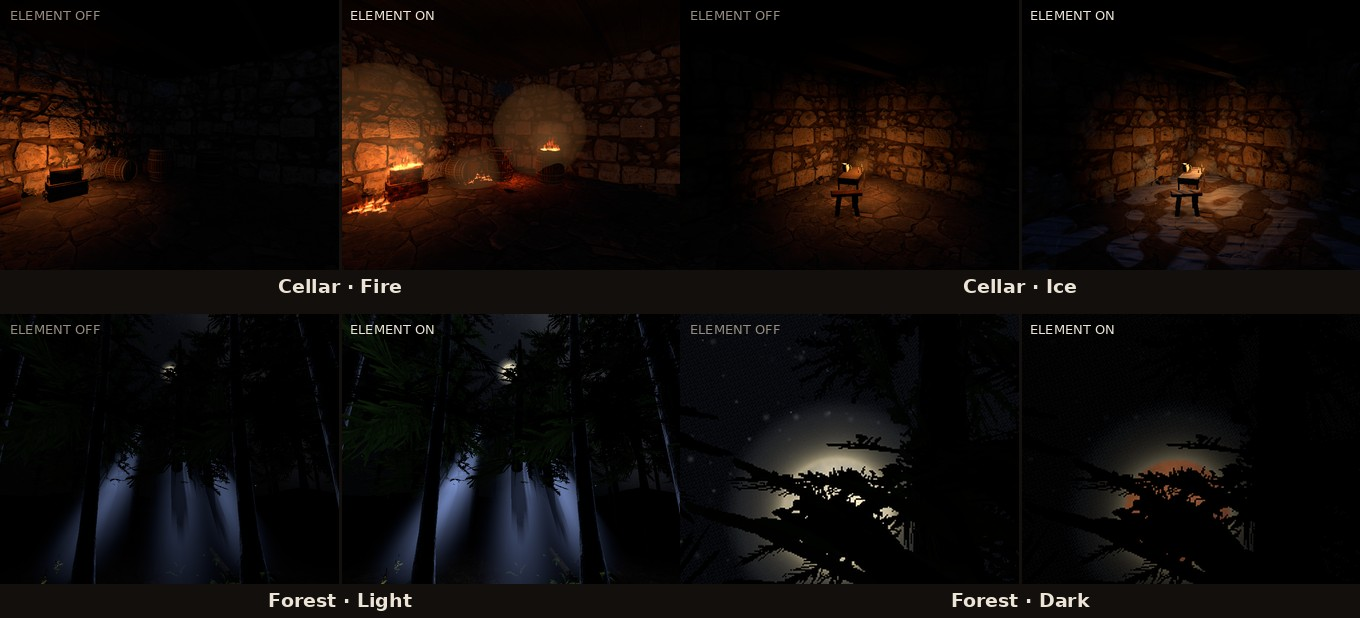
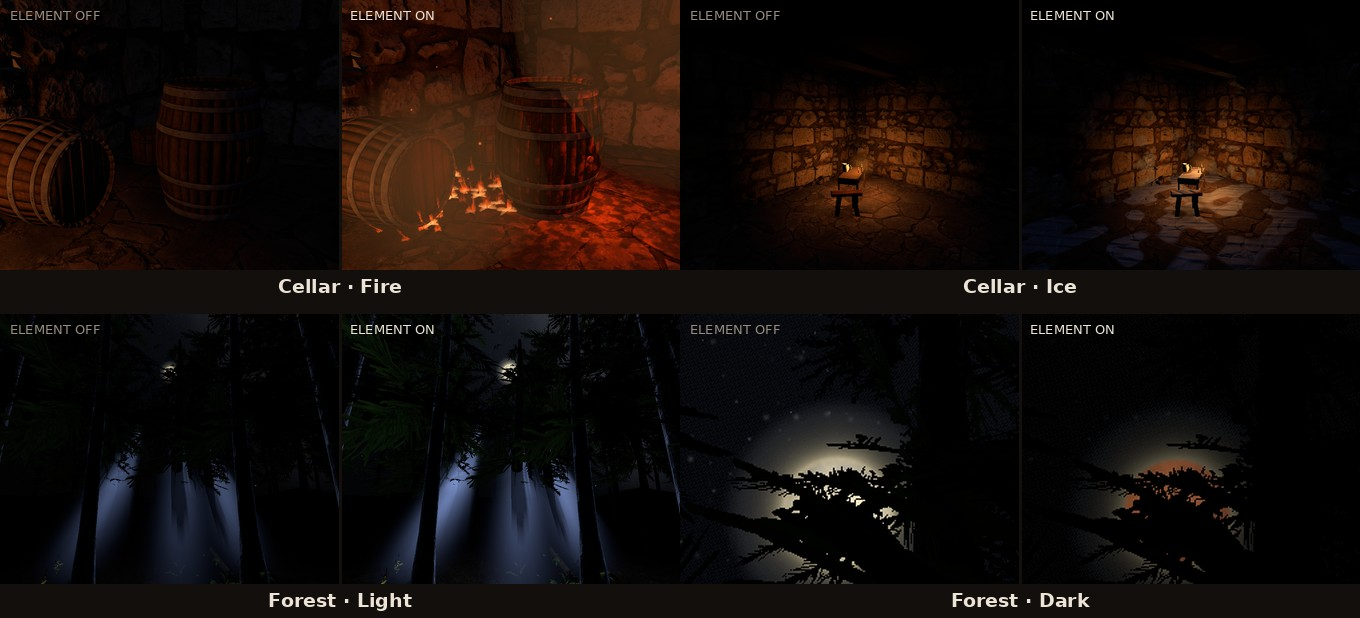
docs(readme): neutral wording, boards re-rendered, and the Fire frame moves off the glow shells
Three user reports.

1. "Die Controlboards werden nicht richtig gerendert in der README, sie sehen dort
   kaputt aus." Right, and all three faults were in the flags rather than in the assets:

   * NO NORMAL MAP. All three tray materials bind one and always did; without it the
     carved recesses, the wood grain and the brass corner straps have no relief at all
     and a tray renders as a painted plank.
   * PITCH 18 IS EDGE-ON. A tray lies FLAT — at 18 degrees it is a sliver. The player
     looks down at it; 50 does what his eye does.
   * NO SHARED SCALE. All three are 639-640 mm wide in the room and their DEPTH differs
     (318 / 369 / 218 mm), so auto-fit sized each to its own box and the strip claimed the
     brass one was half again as big as the others. --scale 0.78 pins all three.

   Two traps recorded next to the fix: the boards are _Cull: 0 (double-sided) unlike the
   hands' _Cull: 2, so rendering them WITHOUT --cull is correct and not an oversight; and
   PlayTray_16vm268h is BRONZE while PlayTray_9capjqp6 is STEEL (BoardFrame.cs:68-69) —
   they were swapped once during this very fix and only the source catches it.

   The recipe now lives in unity/asset-preview/build_asset_strips.sh with the boards in
   it, instead of in a shell history.

2. "Beim Feuer-Render sieht man solche Kreise um das Feuer herum - das sehe ich ingame
   nicht." The circles are the Env_GlowSphere shells (EnvGlow.shader): real scene
[…]

Changed region(s): [[0.2471, 0.0, 0.525, 0.4612], [0.0, 0.0615, 0.1544, 0.4612], [0.0, 0.0, 0.0309, 0.0307]]

diff --git a/unity/asset-preview/build_env_images.py b/unity/asset-preview/build_env_images.py
@@ -5,7 +5,7 @@ unity/GloomhavenVR.Assets/Assets/Editor/PreviewEnvironments.cs — all three sho
 own head height (2.02 m in the cellar, 2.80 m in the wood), so the front page shows the rooms from
 where a player really stands rather than from a convenient camera.
 
-    ENV_PREVIEW_OUT=<dir> ENV_PREVIEW_VIEWS=Readme,FireRoom ENV_PREVIEW_NOHAUNT=1 ENV_PREVIEW_NOFIRE=1 \
+    ENV_PREVIEW_OUT=<dir> ENV_PREVIEW_VIEWS=Readme,FireSpill ENV_PREVIEW_NOHAUNT=1 ENV_PREVIEW_NOFIRE=1 \
       xvfb-run -a /home/claw/unity-2021.3.5/Editor/Unity -batchmode \
       -projectPath unity/GloomhavenVR.Assets -buildTarget Win64 \
       -executeMethod GloomhavenVR.EnvironmentsPreview.RenderAll -logFile env-readme.log
@@ -105,13 +105,20 @@ hero('env_cellar_ReadmeC.png', 'env-cellar.jpg')
 hero('env_swamp_ReadmeS.png', 'env-forest.jpg')
 # The moon crop: 360x202 of the 1280x720 ReadmeMoon frame, centred on the disc.
 MOON = (470, 180, 830, 382)
-pairs([# FIRE IS SHOT FROM FireRoom, NOT FROM THE README STATION, and that is the user's second
-       # verdict on this image: "Das Feuer sieht man nicht auf dem Bild." He was right — ReadmeC
-       # looks at the candle table, so under Fire it showed the room BRIGHTENING with no fire
-       # anywhere in frame, which reads as a light switch. The gated fires are props in fixed
-       # places (a crate, a plank, a barrel) and a frame has to point AT them. FireRoom holds
-       # three of them at once and its "off" half is the same corner, dark and quiet.
-       ('env_cellar_FireRoom_ebase.png',  'env_cellar_FireRoom_efireS.png',  'Cellar · Fire',  None),
+pairs([# FIRE IS SHOT AT A FIRE, NOT AT THE README STATION — the user's verdict was "das Feuer
+       # sieht man nicht auf dem Bild", and he was right: ReadmeC looks at the candle table, so
+       # under Fire it showed the room BRIGHTENING with no fire in frame, which reads as a light
+       # switch. The gated fires are props in fixed places and a frame has to point AT them.
+       #
+       # AND IT IS FireSpill RATHER THAN FireRoom, on his next report: "beim Feuer-Render sieht
+       # man solche Kreise um das Feuer herum — das sehe ich ingame nicht". Those are the
+       # Env_GlowSphere shells (EnvGlow.shader) — real scene geometry, an additive sphere whose
+       # brightness falls off toward its silhouette. In the headset they read as volumetric haze;
+       # on a flat still shot from across the room they read as two hard-edged discs on the
+       # masonry. NO CAUSE IS ASSERTED BEYOND THAT, and nothing in the room was changed to suit a
+       # picture — the FRAME was changed instead. FireSpill stands close to a burning spill, where
+       # the flames and the glowing floor fill the frame and no glow shell is seen against a wall.
+       ('env_cellar_FireSpill_ebase.png', 'env_cellar_FireSpill_efireS.png', 'Cellar · Fire',  None),
        ('env_cellar_ReadmeC_ebase.png',   'env_cellar_ReadmeC_eiceS.png',    'Cellar · Ice',   None),
        ('env_swamp_ReadmeS_ebase.png',    'env_swamp_ReadmeS_elightS.png',   'Forest · Light', None),
        ('env_swamp_ReadmeMoon_ebase.png', 'env_swamp_ReadmeMoon_edarkS.png', 'Forest · Dark',  MOON)],

diff --git a/README.md b/README.md
@@ -5,41 +5,38 @@
   </picture>
 </p>
 
-<h3 align="center">Gloomhaven, as a table you stand at.</h3>
-
 <p align="center">
-  Pick your cards up with your hands. Lift the monsters off the board.<br>
-  <b>And bring your friends to the same table.</b>
+  A room-scale VR mod for <b>Gloomhaven (digital)</b> on PC.<br>
+  The scenario becomes a diorama on a table you stand at, played with tracked hands.
 </p>
 
 <p align="center">
   <a href="INSTALL.md"><b>Install →</b></a> &nbsp;·&nbsp;
   <a href="docs/PLAYING.md">Playing guide</a> &nbsp;·&nbsp;
-  <a href="docs/PLAYING.md#known-limitations">Rough edges</a>
+  <a href="docs/PLAYING.md#known-limitations">Known limitations</a>
 </p>
 
 ---
 
-A mod for **Gloomhaven (digital)** on PC. Not the flat game on a big screen — the scenario is a lit
-diorama on the table in front of you, and you play it with your hands.
+The mod runs on top of the existing game. Rules, saves and campaign progress are the game's own and
+are not modified.
 
-Same rules, same saves, same campaign.
+## Multiplayer
 
-## Play it together
+Supported for the full session, and every feature is built to work with other players in it. Each
+VR player has a head mask, hands and their own control board; miniatures picked up, shared windows
+moved and points made with a finger are visible to everyone.
 
-**Multiplayer is the whole point.** Two, three, four of you around one table — a mask where a face
-would be, hands that point and reach, your own control board at your side.
+Players without a headset join the same session on a flat screen and see VR actions as ordinary
+moves. All VR players need the same mod version; peers on different versions are blocked with a
+notice.
 
-Lift a miniature and everyone sees it lift. Drag the story window and it moves for everyone,
-because it hangs in the room, not in front of one person's eyes.
+## Cards and miniatures
 
-**Friends without a headset lose nothing.** They play the flat game they already own, in the same
-session, and everything you do in VR reaches them as an ordinary move.
-
-## Cards in your palm, monsters in your fist
-
-Roll your wrist up and the fan opens — pull a card out, read it, drop it into a slot on your board.
-Squeeze a miniature off the board, hold it up, resize it in mid-air, let go.
+Turning the wrist palm-up opens the hand of ability cards as a fan. A card can be taken out, held
+up to read and dropped into a slot on the control board; slot order is the initiative order.
+Miniatures can be squeezed off the board, held, resized with the second hand and released back onto
+their hex.
 
 <table>
 <tr>
@@ -48,48 +45,64 @@ Squeeze a miniature off the board, hold it up, resize it in mid-air, let go.
 </tr>
 </table>
 
-## Make it yours
+The game's own windows — character sheets, the merchant, the story — become panels in the room that
+can be grabbed by a bar, moved, resized and left where they are put. Between scenarios the campaign
+map is a room with a table in it rather than a screen.
 
-Three pairs of hands, three masks, three control boards — one dropdown each, and **the other
-players see your choice**. Every one of them was modelled for this mod.
+## Custom assets
+
+Three pairs of hands, three head masks and three control boards, one dropdown each in the settings
+and changeable mid-session. The choice is visible to the other players. All of them were modelled
+for this project.
 
 <p align="center">
-  <img src="docs/img/styles-hands.png" width="620" alt="Leather glove, plate gauntlet, arcane glove">
-  <img src="docs/img/styles-masks.png" width="620" alt="Ironwatch, Runeveil, Grimhorn">
-  <img src="docs/img/styles-boards.png" width="620" alt="Oak, Steel, Bronze">
+  <img src="docs/img/styles-hands.png" width="620" alt="Leather glove, plate gauntlet, arcane glove"><br>
+  <i>Leather glove · plate gauntlet · arcane glove</i>
 </p>
 
-## Choose the room you play in
+<p align="center">
+  <img src="docs/img/styles-masks.png" width="620" alt="Ironwatch, Runeveil, Grimhorn"><br>
+  <i>Ironwatch · Runeveil · Grimhorn</i>
+</p>
 
-A candle-lit **cellar** or a moonlit **night forest** — both built by hand, with a real star
-catalogue overhead, firelight, drips and quiet ambience. Something moves in both of them when you
-are not looking.
+<p align="center">
+  <img src="docs/img/styles-boards.png" width="620" alt="Oak, Steel, Bronze"><br>
+  <i>Oak · Steel · Bronze</i>
+</p>
+
+## Environments
+
+Two rooms to play in, both built for this project: a candle-lit cellar and a night forest with a
+real star catalogue overhead. Both carry firelight, ambient sound and occasional rare events, and
+each of those has its own setting.
 
 <p align="center">
   <img src="docs/img/env-cellar.jpg" width="400" alt="The cellar">
   <img src="docs/img/env-forest.jpg" width="400" alt="The night forest">
 </p>
 
-**And the room answers the game.** Infuse Fire and the cellar warms to the ceiling. Ice grows frost
-across the floor. Air shakes the leaves, Earth brings up green, Light lifts the whole wood — and
-Dark takes it away and walks the moon into a blood-red eclipse.
+The rooms react to the scenario's element infusions. Fire lights the room and sets props burning,
+Ice grows frost over floors, walls and trunks, Air moves flames and foliage, Earth brings up growth,
+Light lifts the ambient level and Dark lowers it and puts the moon into a total eclipse. The effect
+is applied at the edges of the room, not over the play area, and can be turned off or scaled in the
+settings.
 
 <p align="center">
   <img src="docs/img/env-elements.jpg" width="820" alt="The same camera with the element off and on: Cellar under Fire and Ice, Forest under Light and Dark"><br>
   <i>Same camera, element off on the left of each pair and on on the right.</i>
 </p>
 
-**Or play in your own living room.** Mixed-reality passthrough floats the board, the table and your
-control board in your real space. It is an either/or: with see-through on, the built rooms stand
-down.
+**Mixed reality** is an alternative to both rooms: the sky is replaced with a chroma-key colour so a
+streaming app can composite the board and the table over the real room. With passthrough on the
+built rooms and the sky are switched off, because they cannot be drawn over it.
 
-## What you need
+## Requirements
 
 **Gloomhaven (digital) for PC** (Steam or GOG) · a Windows PC that runs it · a **PC-VR headset with
-two controllers**. Room-scale or standing — a small space is fine.
+two tracked controllers**. Room-scale or standing; a small play space is enough.
 
-Built and played on a **Quest 3 over Virtual Desktop**. Setup is two zips into the game folder,
-once, and one line in a text file turns it all off again.
+Developed and tested on a **Quest 3 over Virtual Desktop**. Installation is two archives extracted
+into the game folder; one line in a config file disables the mod again.
 
 ### **[→ Install guide](INSTALL.md)**
 
@@ -106,7 +119,7 @@ Built on the work of others:
   where a world panel is not the right answer.
 - **[SteamVR Unity Plugin](https://github.com/ValveSoftware/steamvr_unity_plugin)** by Valve
   (BSD-3-Clause) — the base hand models.
-- **Demeo** (Resolution Games) — the interaction model this mod chases. No assets or code from it
+- **Demeo** (Resolution Games) — the interaction model this mod follows. No assets or code from it
   are used.
 - The hands, the masks, the boards and the other built 3D assets were made for this project by its
   artist.

diff --git a/docs/img/README.md b/docs/img/README.md
@@ -199,6 +199,25 @@ Two further things in that script are load-bearing, and both were learned the ha
   sizes the player actually sees: the armoured hands are ~2.3x bulkier in mesh and are worn at
   `[Hands] PlateScale` 0.62, the number that matches them to the glove's real hand bulk.
 
+**THE CONTROL BOARDS WERE WRONG IN THREE WAYS AT ONCE** (user: "die Controlboards werden nicht
+richtig gerendert in der README, sie sehen dort kaputt aus"), and all three were in the flags, not
+in the assets:
+
+1. **No normal map.** All three tray materials bind one and always did. Without it the carved
+   recesses, the wood grain and the brass corner straps have no relief and a tray reads as a
+   painted plank.
+2. **Pitch 18 is edge-on.** A tray lies FLAT. Shot from 18 degrees it is a sliver; the player looks
+   down at it, so 50 does what his eye does.
+3. **No shared scale.** All three are 639-640 mm wide in the room but their depth differs
+   (318 / 369 / 218 mm), so auto-fit sized each to its own bounding box and the strip claimed the
+   brass one was half again as big as the others. `--scale 0.78` pins all three to one ortho width.
+
+Note the boards are **`_Cull: 0`** (double-sided), unlike the hands' `_Cull: 2` — so they are
+rendered WITHOUT `--cull`, and that is correct rather than an oversight to be "fixed" by copying
+the hand line. Read the `.mat`. And the names swap easily and have been swapped once:
+`PlayTray_16vm268h` is **bronze**, `PlayTray_9capjqp6` is **steel** (`BoardFrame.cs:68-69`,
+`VRCardFactory.cs:29-30`) — check the source, not the look of the render.
+
 **THE RECIPE IS NOW A SCRIPT, because it was once only in a shell history.** The strips were
 rebuilt at ModBuild 247 and the exact per-asset flags lived nowhere, so the next asset delivery
 could not reproduce the frame it was replacing. `unity/asset-preview/build_asset_strips.sh` holds
@@ -254,7 +273,7 @@ rows are chosen for the SIZE of the difference rather than for covering the set:
 
 | Row | What changes |
 |---|---|
-| Cellar · Fire | the same corner goes from dark and quiet to a burning crate, a burning plank and a burning barrel |
+| Cellar · Fire | the same corner goes from two quiet barrels to a burning spill, flames on the floor and stone glowing red |
 | Cellar · Ice | frost grows out across the flagstones, cold blue against the candle |
 | Forest · Light | canopy, ferns and shafts all lift out of the dark |
 | Forest · Dark | the moon goes into total eclipse and turns copper; the wood goes black |
@@ -272,13 +291,23 @@ the occlusion *worse*, because every direction out of the centre walks under ano
 file's own note says the same thing ("from inside the clearing the crowns cover most of the moon").
 A partly-veiled moon is what the player gets.
 
-**The Fire row is shot from `FireRoom`, not from the README station** — the user's second verdict
-on this image was "das Feuer sieht man nicht auf dem Bild", and he was right. `ReadmeC` looks at
-the candle table, so under Fire it showed the room BRIGHTENING with no fire anywhere in frame,
-which reads as a light switch rather than as a fire. The gated fires are props in fixed places (a
-crate, a plank, a barrel) and a frame has to point AT them. `FireRoom` holds three at once and its
-"off" half is the same corner, dark and quiet. **A row does not have to share a camera with the
-other rows** — it has to share one with its own other half, which is the only comparison being made.
+**The Fire row is shot at a fire, not from the README station.** The user's verdict was "das Feuer
+sieht man nicht auf dem Bild", and he was right: `ReadmeC` looks at the candle table, so under Fire
+it showed the room BRIGHTENING with no fire anywhere in frame, which reads as a light switch. The
+gated fires are props in fixed places and a frame has to point AT them. **A row does not have to
+share a camera with the other rows** — it has to share one with its own other half, which is the
+only comparison being made.
+
+**It is `FireSpill` and not `FireRoom`, on his next report:** *"beim Feuer-Render sieht man solche
+Kreise um das Feuer herum — das sehe ich ingame nicht."* Those circles are the `Env_GlowSphere`
+shells (`EnvGlow.shader`): real scene geometry, an additive sphere whose brightness falls off
+toward its own silhouette. In the headset they read as volumetric haze around a flame; on a flat
+still shot from across the room they read as two hard-edged discs on the masonry. **No cause is
+asserted beyond that** — it was not investigated as a defect, because the user reports the headset
+looks right and this file's own note already says previews come out brighter than the headset. What
+changed is the FRAME, not the room: `FireSpill` stands close to a burning spill where the flames and
+the glowing floor fill the picture and no glow shell is seen edge-on against a wall. **Never re-light
+or re-grade a room to make a screenshot behave.**
 
 All four use the fixed non-zero clock (3.7 s) the element review set uses, and the `ReadmeMoon`
 station was ADDED to the Views table — nothing above it moved. Do not move an existing station to
